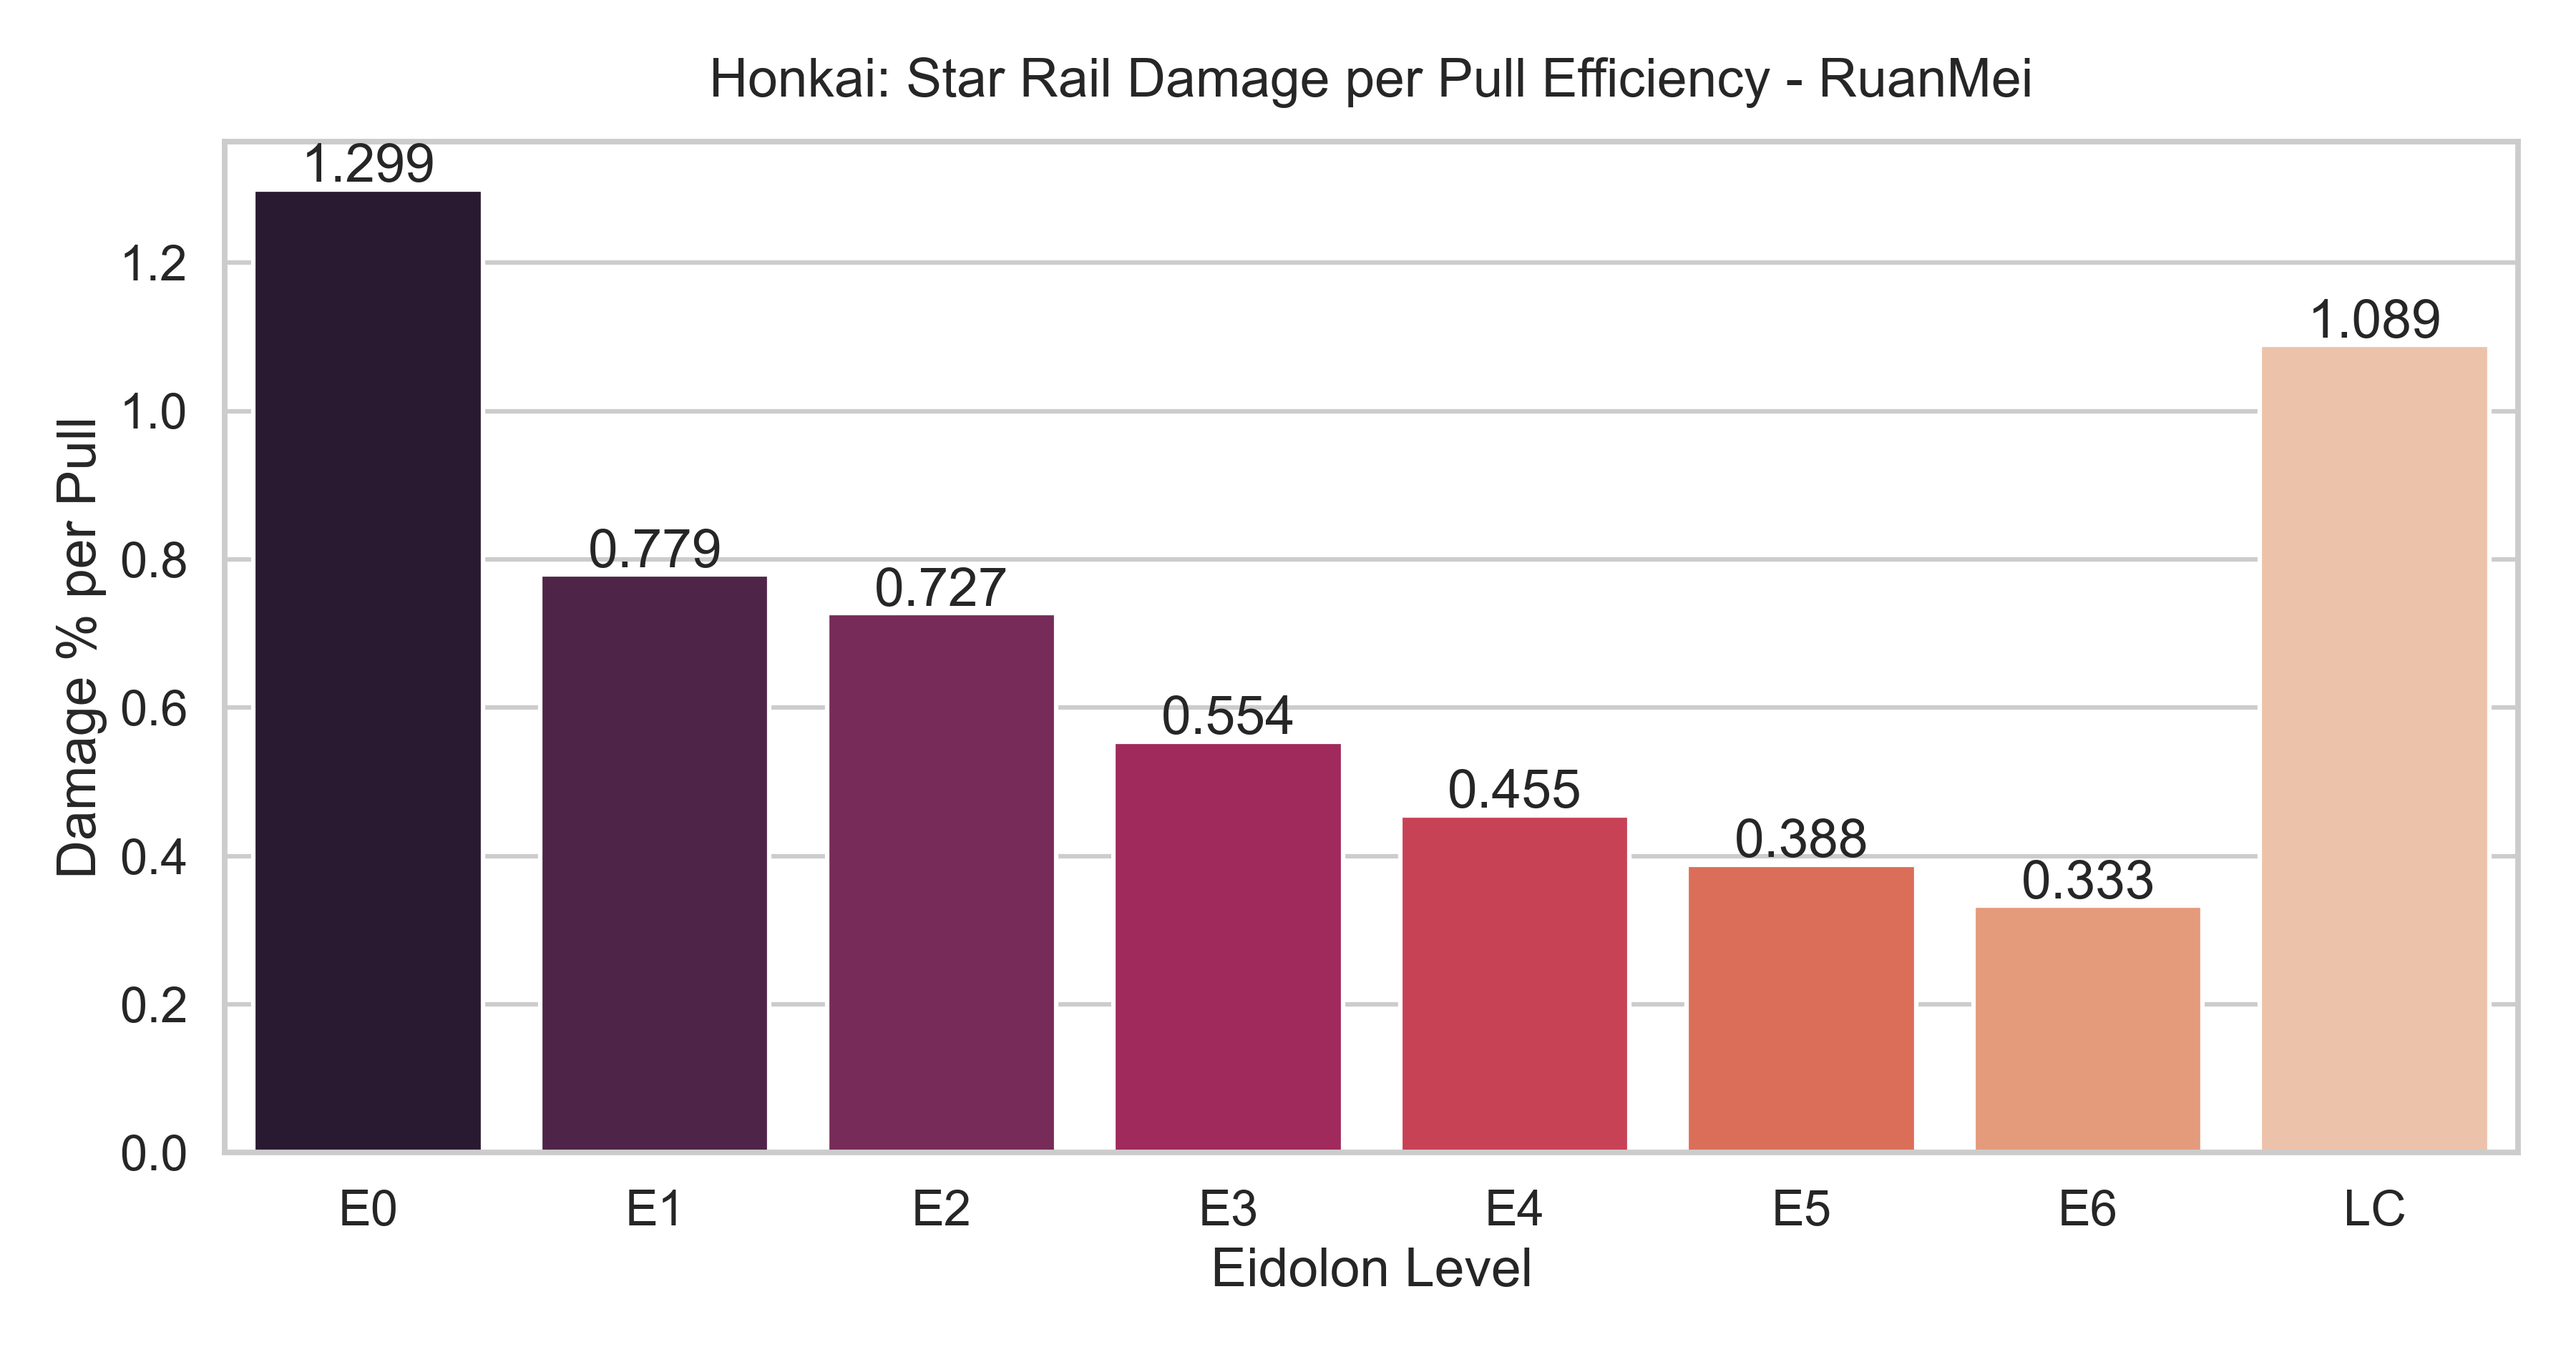
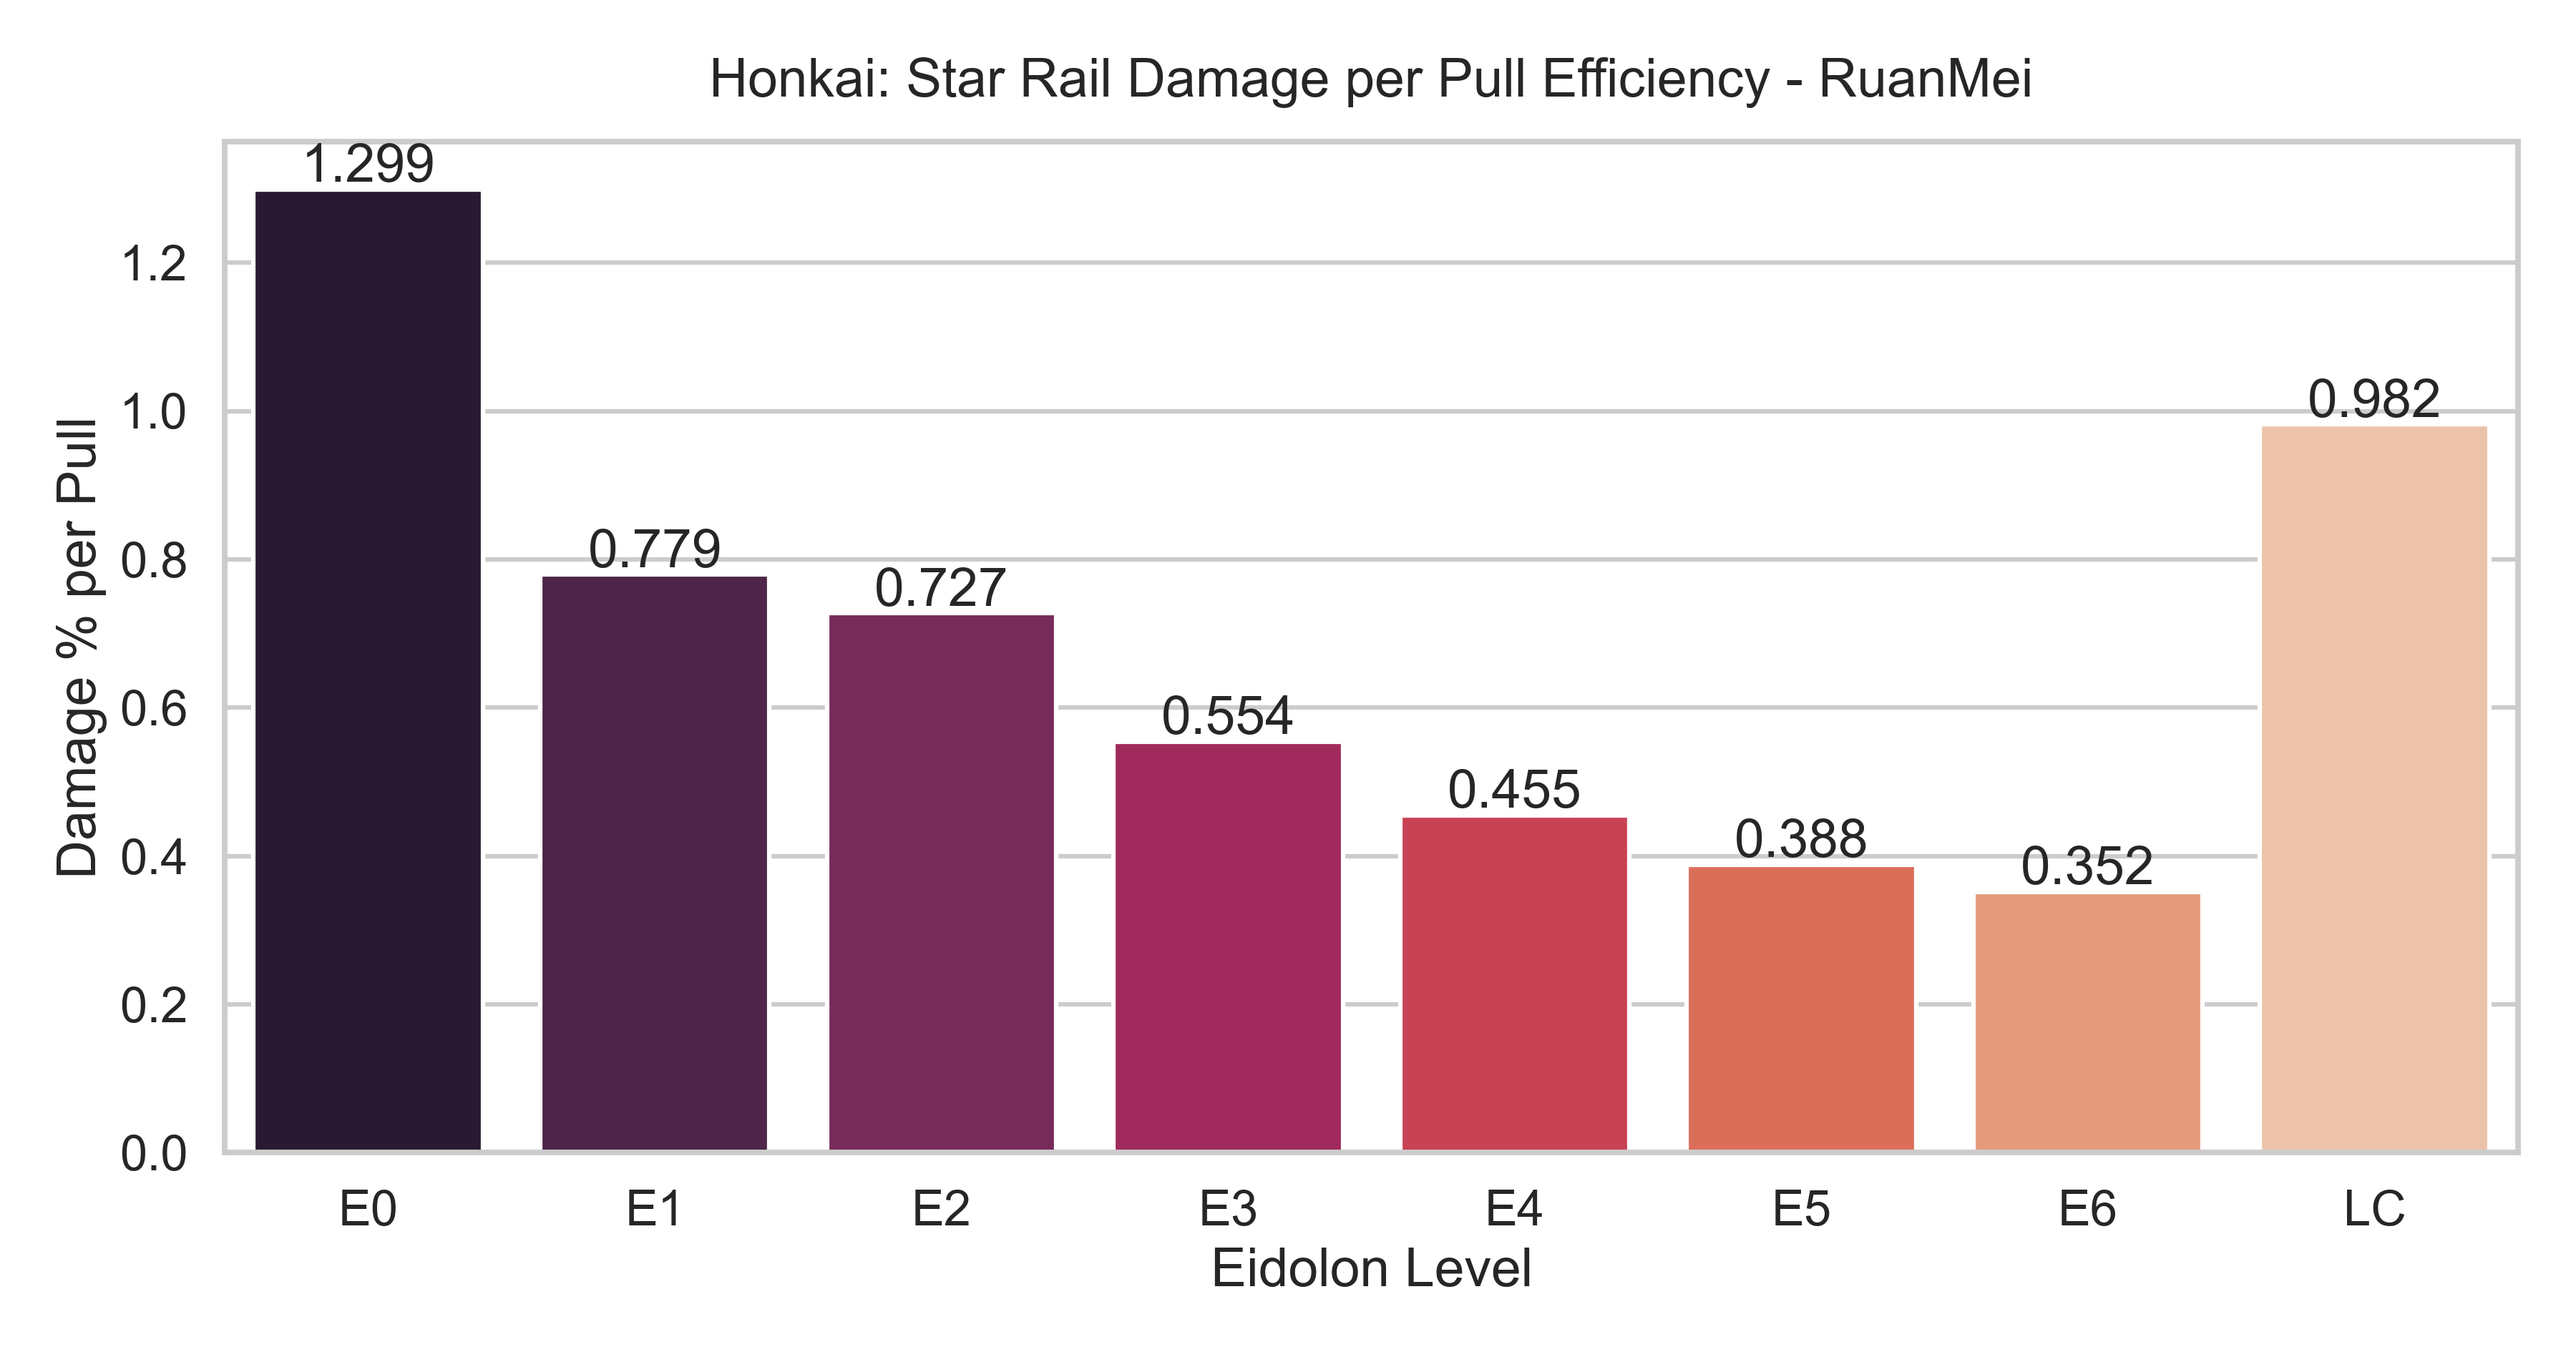
Refactor RuanMei damage calculation methods: remove affected_team_members parameter from calculate_dmg_increased_by_skill_points and calculate_dmg_increased_from_energy_regen methods. Implement calculate_dmg_increased_from_increased_ult_duration method for enhanced damage calculations. Update RuanMe

Changed region(s): [[0.8711, 0.2185, 0.9644, 0.3434], [0.7467, 0.6243, 0.8711, 0.6868]]

diff --git a/simulations/characters/ruan_mei.py b/simulations/characters/ruan_mei.py
@@ -43,11 +43,16 @@ class RuanMei(Character):
             self.DMG_INCREASED_FROM_SKILL = 0.352
         if has_e6:
             self.TALENT_BREAK_DMG_MULTIPLIER = 1.32 + 2
+            ult_duration_increase = (
+                self.calculate_dmg_increased_from_increased_ult_duration()
+            )
+        else:
+            ult_duration_increase = 0
         if has_lc:
             lc_increased_break_effect = 0.6
             dmg_multiplier = 0.24
-            skill_dmg_increase = self.calculate_dmg_increased_by_skill_points(1, 3)
-            energy_gain_increase = self.calculate_dmg_increased_from_energy_regen(10, 3)
+            skill_dmg_increase = self.calculate_dmg_increased_by_skill_points()
+            energy_gain_increase = self.calculate_dmg_increased_from_energy_regen()
         else:
             lc_increased_break_effect = 0
             dmg_multiplier = 0.0
@@ -59,6 +64,7 @@ class RuanMei(Character):
         dmg_multiplier_buff = 1 + dmg_multiplier
         skill_dmg_increase_buff = 1 + skill_dmg_increase
         energy_gain_increase_buff = 1 + energy_gain_increase
+        ult_duration_increase_buff = 1 + ult_duration_increase
 
         atk = self.atk * (1 + atk_increase)
         base_dmg = self.calculate_dmg(atk, self.skill_multiplier)
@@ -82,6 +88,7 @@ class RuanMei(Character):
             * dmg_multiplier_buff
             * skill_dmg_increase_buff
             * energy_gain_increase_buff
+            * ult_duration_increase_buff
         )
 
         talent_break_dmg = base_break_dmg * self.TALENT_BREAK_DMG_MULTIPLIER
@@ -96,6 +103,7 @@ class RuanMei(Character):
             * dmg_multiplier_buff
             * skill_dmg_increase_buff
             * energy_gain_increase_buff
+            * ult_duration_increase_buff
         )
 
         final_ult_break_dmg = (
@@ -107,8 +115,109 @@ class RuanMei(Character):
             * dmg_multiplier_buff
             * skill_dmg_increase_buff
             * energy_gain_increase_buff
+            * ult_duration_increase_buff
         )
 
         break_dmg = final_talent_break_dmg + final_ult_break_dmg
 
         return dmg + break_dmg
+
+    def calculate_dmg_increased_by_skill_points(self) -> float:
+        """
+        Calculate the damage increase from having an extra skill point and periodic skill point recovery.
+
+        Simulates two scenarios:
+        1. Base scenario: Starting with 3 skill points
+        2. Enhanced scenario: Starting with 4 skill points and gaining an additional point every 4 turns
+
+        Returns:
+            float: Percentage increase in damage from the enhanced scenario
+        """
+        # Constants
+        base_skill_point = 3
+        enhanced_skill_point = base_skill_point + 1  # One extra skill point
+        skill_point_recovery = 1
+        skill_duration = 4
+        total_turns = 1000
+
+        # Damage values
+        skill_dmg = self.calculate_dmg(self.atk, self.skill_multiplier)
+        basic_atk_dmg = self.calculate_dmg(self.atk, 1.0)
+
+        def simulate_damage(
+            starting_points: int, with_periodic_gain: bool = False
+        ) -> float:
+            """
+            Simulate damage over time with given skill point parameters
+            
+            Args:
+                starting_points (int): Starting skill points
+                with_periodic_gain (bool): Whether to include periodic skill point gain
+                
+            Returns:
+                float: Total damage calculated over the simulation period
+            """
+            total_damage = 0
+            current_points = starting_points
+            turn_counter = 0
+
+            for _ in range(total_turns):
+                # Check for periodic skill point gain (every 4 turns)
+                if with_periodic_gain and turn_counter == 0:
+                    current_points += 1
+
+                # Use skill if points available, otherwise basic attack
+                if current_points > 0:
+                    current_points -= 1
+                    total_damage += skill_dmg
+                else:
+                    total_damage += basic_atk_dmg
+                    current_points += skill_point_recovery
+
+                # Update turn counter for periodic gain
+                if with_periodic_gain:
+                    turn_counter = (turn_counter + 1) % skill_duration
+
+            return total_damage
+
+        # Calculate damage for base and enhanced scenarios
+        base_dmg = simulate_damage(base_skill_point)
+        enhanced_dmg = simulate_damage(enhanced_skill_point, True)
+
+        return self.calculate_percent_change(base_dmg, enhanced_dmg)
+
+    def calculate_dmg_increased_from_energy_regen(self) -> float:
+        base_turn = 5
+        additional_energy_gain_per_wave = 10
+        energy_gain_per_turn = additional_energy_gain_per_wave / base_turn
+
+        base_energy_regen = 30.0
+        base_turn_until_ult = self.ult_energy / base_energy_regen
+
+        new_energy_regen = base_energy_regen + energy_gain_per_turn
+        new_turn_until_ult = self.ult_energy / new_energy_regen
+
+        base_ult_used = base_turn / base_turn_until_ult
+        new_ult_used = base_turn / new_turn_until_ult
+
+        ult_dmg = self.calculate_dmg(self.atk, self.ult_multiplier)
+        non_skill_dmg = 1000
+
+        base_cycle_dmg = (ult_dmg * base_ult_used) + non_skill_dmg
+        new_cycle_dmg = (ult_dmg * new_ult_used) + non_skill_dmg
+
+        # Calculate damage increase
+        damage_increase = (new_cycle_dmg / base_cycle_dmg) - 1
+
+        return damage_increase
+
+    def calculate_dmg_increased_from_increased_ult_duration(self) -> float:
+        base_turn_duration = 3
+        new_turn_duration = 4
+
+        dmg = self.calculate_dmg(self.atk, self.skill_multiplier)
+        buffed_dmg = dmg * (1 + self.RES_PEN_FROM_ULT)
+        base_dmg = (buffed_dmg * base_turn_duration) + dmg
+        new_dmg = buffed_dmg * new_turn_duration
+
+        return self.calculate_percent_change(base_dmg, new_dmg)

diff --git a/simulations/characters/base_character.py b/simulations/characters/base_character.py
@@ -145,66 +145,29 @@ class Character:
 
         raise NotImplementedError("Subclasses should implement this method.")
 
-    def calculate_dmg_increased_by_skill_points(
-        self, additional_skill_points: int, affected_team_members: int = 1
-    ) -> float:
+    def calculate_dmg_increased_by_skill_points(self) -> float:
         """
         Calculate the damage increase from additional skill points
 
-        Args:
-            additional_skill_points: Extra skill points gained
-            affected_team_members: Number of team members affected
-
         Returns:
             Damage increase percentage
         """
-        base_skill_point = 3
-        new_skills_point = base_skill_point + additional_skill_points
+        raise NotImplementedError("Subclasses should implement this method.")
 
-        # Get single skill damage
-        single_skill_dmg = self.calculate_dmg(self.atk, self.skill_multiplier)
-        non_skill_dmg = 1000
-
-        # Calculate damage per cycle
-        base_cycle_dmg = (single_skill_dmg * base_skill_point) + non_skill_dmg
-        new_cycle_dmg = (single_skill_dmg * new_skills_point) + non_skill_dmg
-
-        # Calculate damage increase
-        damage_increase = (new_cycle_dmg / base_cycle_dmg) - 1
-
-        return damage_increase / affected_team_members
-
-    def calculate_dmg_increased_from_energy_regen(
-        self, additional_energy_gain: float, affected_team_members: int = 1
-    ) -> float:
+    def calculate_dmg_increased_from_energy_regen(self) -> float:
         """
         Calculate the damage increase from energy regeneration.
 
-        Args:
-            additional_energy_gain (float): The additional energy gained.
-            affected_team_members (int): Number of team members affected.
+        Returns:
+            Damage increase percentage
+        """
+        raise NotImplementedError("Subclasses should implement this method.")
+
+    def calculate_dmg_increased_from_increased_ult_duration(self) -> float:
+        """
+        Calculate the damage increase from increased Ult duration.
 
         Returns:
             Damage increase percentage
         """
-        base_turn = 5
-
-        base_energy_regen = 30.0
-        base_turn_until_ult = self.ult_energy / base_energy_regen
-
-        new_energy_regen = base_energy_regen + additional_energy_gain
-        new_turn_until_ult = self.ult_energy / new_energy_regen
-
-        base_ult_used = base_turn / base_turn_until_ult
-        new_ult_used = base_turn / new_turn_until_ult
-
-        ult_dmg = self.calculate_dmg(self.atk, self.ult_multiplier)
-        non_skill_dmg = 1000
-
-        base_cycle_dmg = (ult_dmg * base_ult_used) + non_skill_dmg
-        new_cycle_dmg = (ult_dmg * new_ult_used) + non_skill_dmg
-
-        # Calculate damage increase
-        damage_increase = (new_cycle_dmg / base_cycle_dmg) - 1
-
-        return damage_increase / affected_team_members
+        raise NotImplementedError("Subclasses should implement this method.")
